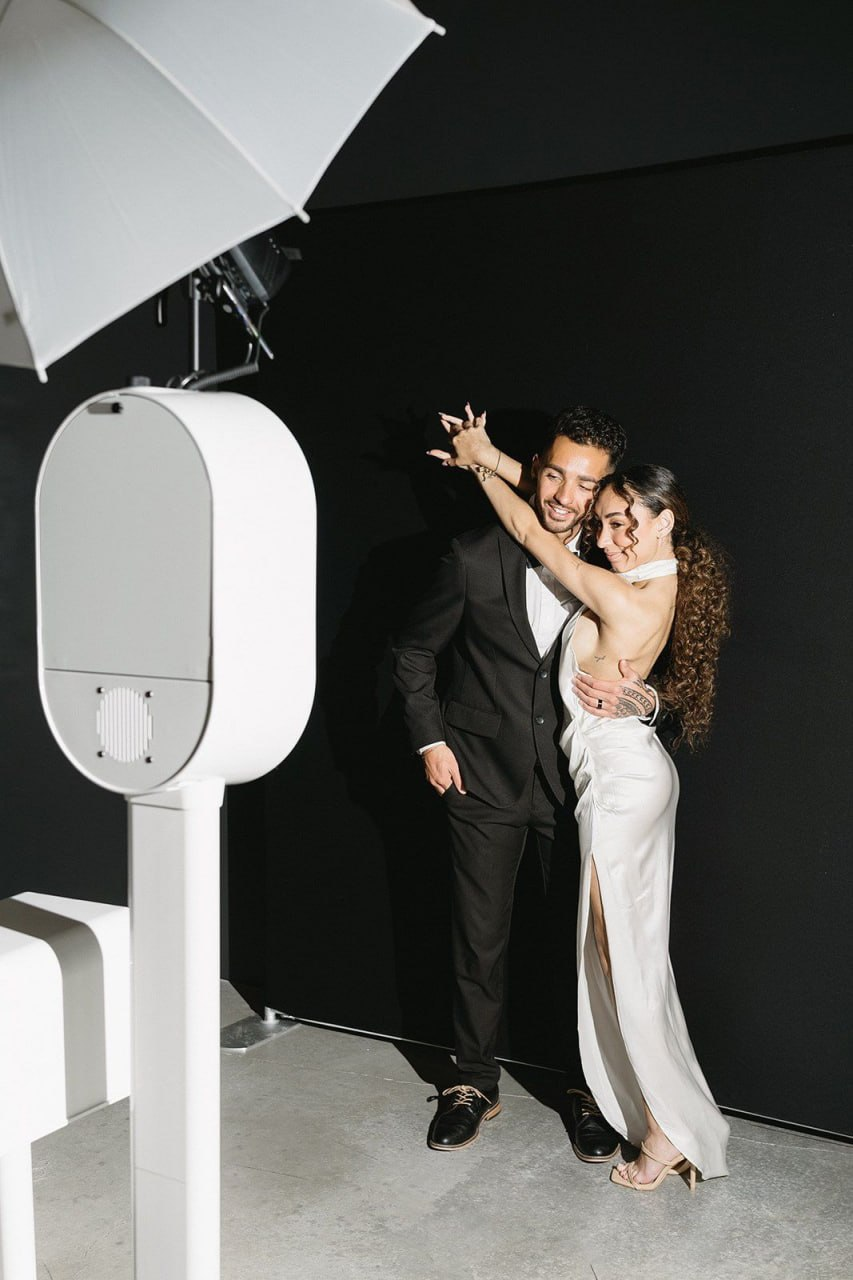
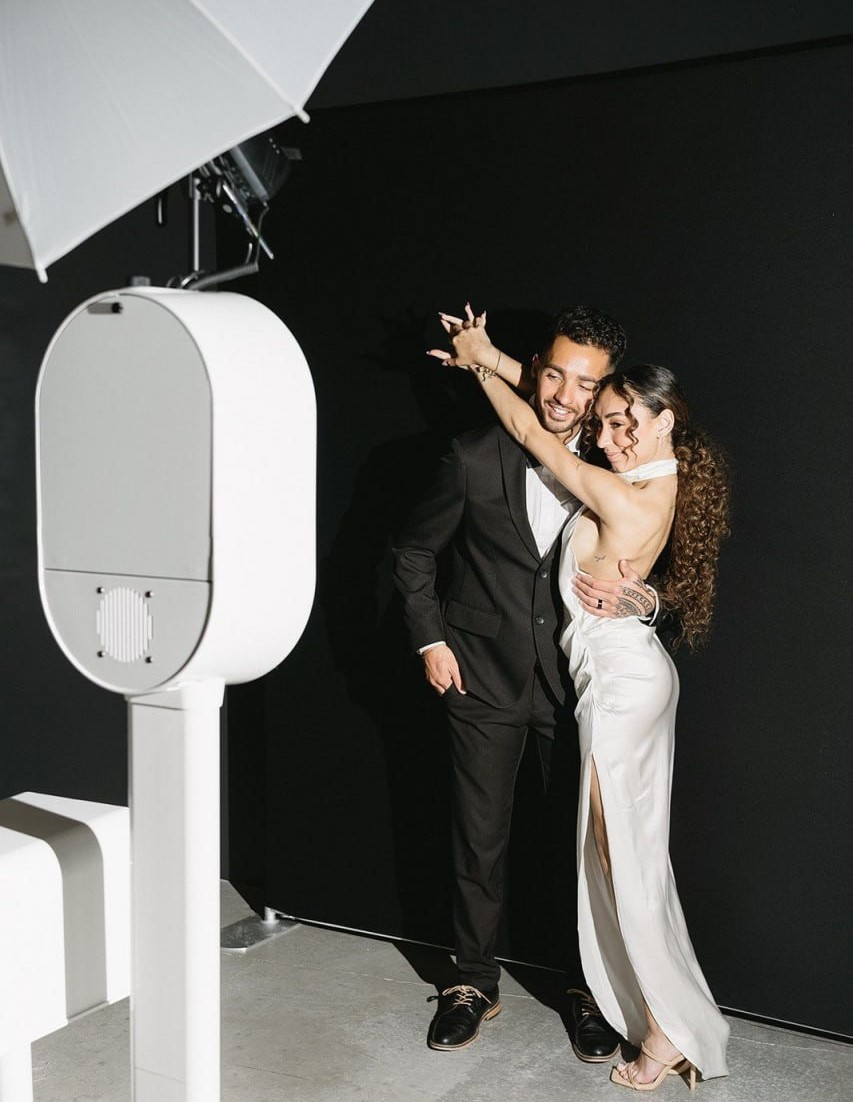
changing text and some images

diff --git a/src/pages/Photobooth.jsx b/src/pages/Photobooth.jsx
@@ -93,8 +93,8 @@ useEffect(() => {
 
       <div className='w-full flex items-center justify-center max-sm:w-full max-sm:flex-col max-sm:items-center max-sm:justify-center mt-8 pt-8'>
         <div className='w-11/12 grid grid-cols-2 max-sm:grid-cols-1 gap-4 px-4 max-sm:px-1'>
-            <img src="https://images.unsplash.com/photo-1617676480063-1f0b26a5e04d?ixlib=rb-4.1.0&ixid=M3wxMjA3fDB8MHxwaG90by1wYWdlfHx8fGVufDB8fHx8fA%3D%3D&auto=format&fit=crop&q=80&w=870" alt="" className='shadows' />
-            <img src="https://images.unsplash.com/photo-1643651576156-c062a5b8c324?ixlib=rb-4.1.0&ixid=M3wxMjA3fDB8MHxwaG90by1wYWdlfHx8fGVufDB8fHx8fA%3D%3D&auto=format&fit=crop&q=80&w=870" alt="" className='max-sm:hidden shadows' />
+            <img src="photo_4_2025-10-18_13-20-11.jpg" alt="" className='shadows' />
+            <img src="photo_17_2025-10-18_13-20-12.jpg" alt="" className='max-sm:hidden shadows' />
         </div>
       </div>
 
@@ -277,8 +277,8 @@ useEffect(() => {
 
       <div className='w-full flex items-center justify-center max-sm:w-full max-sm:flex-col max-sm:items-center max-sm:justify-center mt-8 pt-8'>
         <div className='w-11/12 grid grid-cols-2 max-sm:grid-cols-1 gap-4 px-4 max-sm:px-1'>
-            <img src="https://images.unsplash.com/photo-1617676480063-1f0b26a5e04d?ixlib=rb-4.1.0&ixid=M3wxMjA3fDB8MHxwaG90by1wYWdlfHx8fGVufDB8fHx8fA%3D%3D&auto=format&fit=crop&q=80&w=870" alt="" className='shadows' />
-            <img src="https://images.unsplash.com/photo-1643651576156-c062a5b8c324?ixlib=rb-4.1.0&ixid=M3wxMjA3fDB8MHxwaG90by1wYWdlfHx8fGVufDB8fHx8fA%3D%3D&auto=format&fit=crop&q=80&w=870" alt="" className='max-sm:hidden shadows' />
+            <img src="photo_3_2025-10-18_13-20-11.jpg" alt="" className='shadows' />
+            <img src="photo_19_2025-10-18_13-20-12.jpg" alt="" className='max-sm:hidden shadows' />
         </div>
       </div>
 
